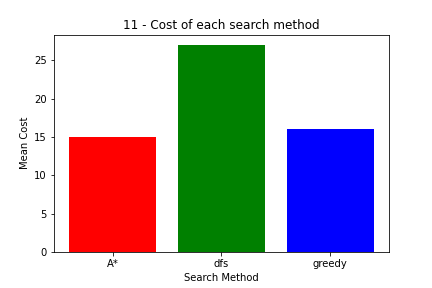
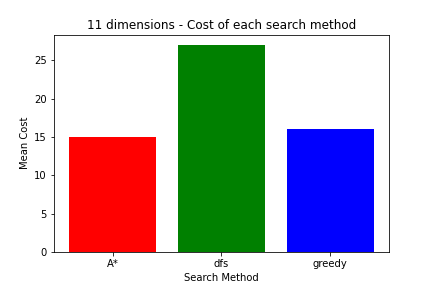
Update to costgraph

Changed region(s): [[0.2106, 0.0625, 0.8426, 0.125]]

diff --git a/tp1/cost_graph.py b/tp1/cost_graph.py
@@ -26,9 +26,9 @@ for dim in data.keys():
 
     # create a bar chart showing the values and errors for all the search methods in the current dimension
     fig, ax = plt.subplots()
-    ax.bar(methods, values, yerr=errors, capsize=5, color=colors[:len(methods)])
+    ax.bar(methods, values, capsize=5, color=colors[:len(methods)])
     ax.set_xlabel('Search Method')
     ax.set_ylabel('Mean Cost')
-    ax.set_title(f'{dim} - Cost of each search method')
+    ax.set_title(f'{dim} dimensions - Cost of each search method')
     fig.savefig(f"Graphs/cost_{dim}.png")
     plt.close(fig)
